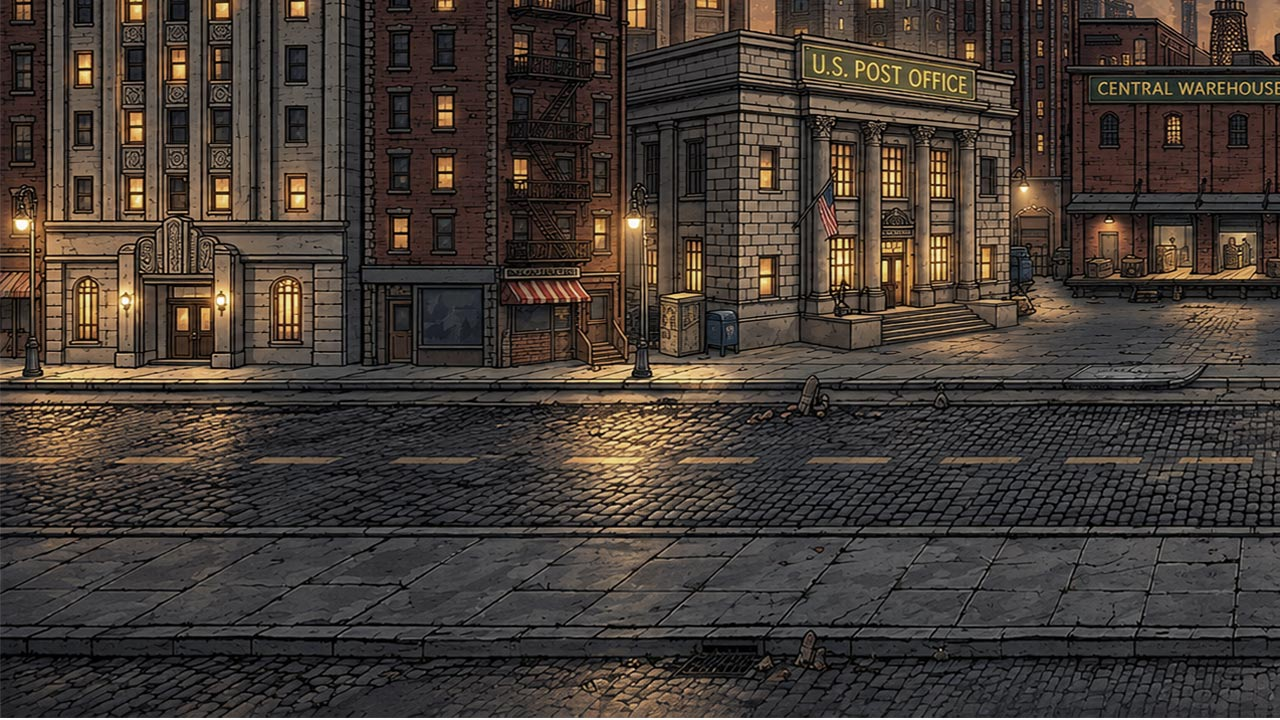
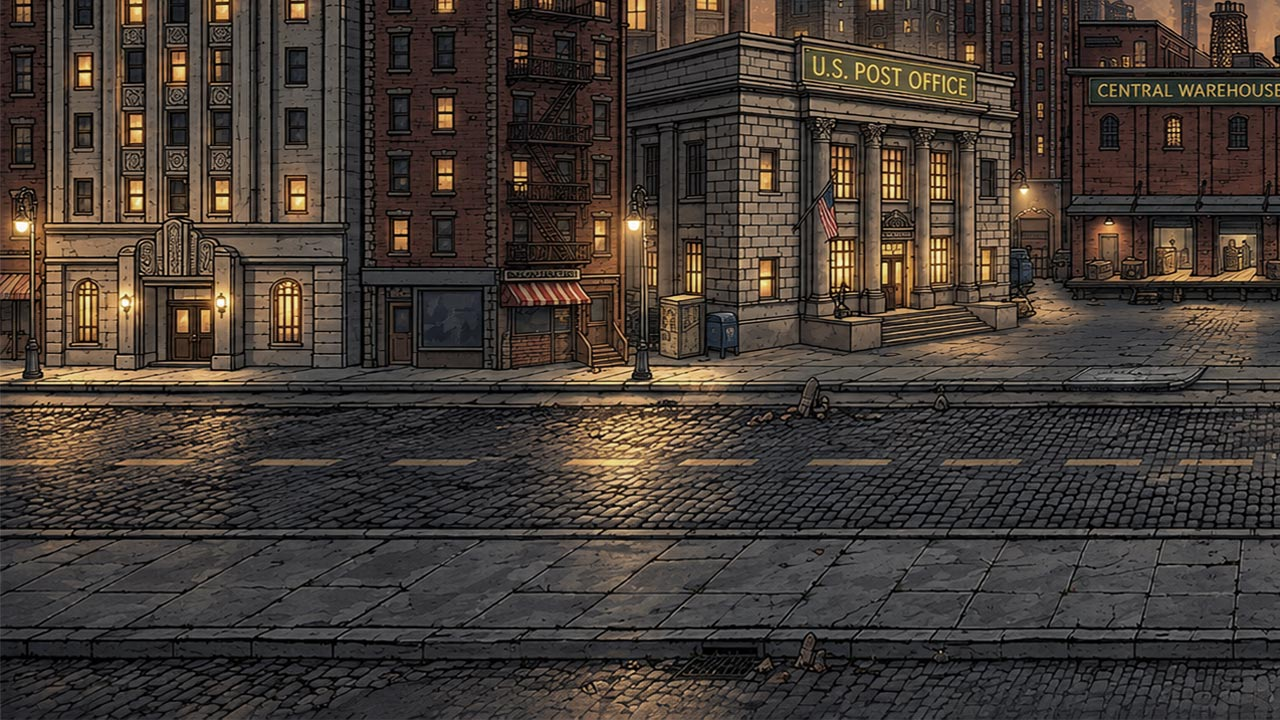
button scale fixes and white line fix

diff --git a/script.js b/script.js
@@ -158,6 +158,7 @@ const game = {
   overReason: null,
   joystickPointerId: null,
   pointerPositions: new Map(),
+  actionPointerIds: new Map(),
   audioUnlocked: false,
   gameOverDelay: 0,
   gameOverTriggered: false,
@@ -170,6 +171,7 @@ const input = {
   down: false,
   joystickX: 0,
   joystickY: 0,
+  actionKeys: new Set(),
 };
 
 const assets = { images: {}, sounds: {} };
@@ -978,14 +980,29 @@ function drawHUD() {
   }
 
   const actions = [
-    { src: ASSET_PATHS.actionJump, rect: BUTTONS.jump },
-    { src: ASSET_PATHS.actionPunch, rect: BUTTONS.punch },
-    { src: ASSET_PATHS.actionKick, rect: BUTTONS.kick },
-    { src: ASSET_PATHS.actionShoot, rect: BUTTONS.shoot },
+    { name: "jump", src: ASSET_PATHS.actionJump, rect: BUTTONS.jump },
+    { name: "punch", src: ASSET_PATHS.actionPunch, rect: BUTTONS.punch },
+    { name: "kick", src: ASSET_PATHS.actionKick, rect: BUTTONS.kick },
+    { name: "shoot", src: ASSET_PATHS.actionShoot, rect: BUTTONS.shoot },
   ];
-  actions.forEach(({ src, rect }) => {
+  actions.forEach(({ name, src, rect }) => {
     const img = assets.images[src];
-    if (img) ctx.drawImage(img, rect.x, rect.y, rect.w, rect.h);
+    if (!img) return;
+    const pressed =
+      input.actionKeys.has(name) ||
+      Array.from(game.actionPointerIds.values()).includes(name);
+    const scale = pressed ? 0.9 : 1;
+    const drawWidth = rect.w * scale;
+    const drawHeight = rect.h * scale;
+    const centerX = rect.x + rect.w / 2;
+    const centerY = rect.y + rect.h / 2;
+    ctx.drawImage(
+      img,
+      centerX - drawWidth / 2,
+      centerY - drawHeight / 2,
+      drawWidth,
+      drawHeight,
+    );
   });
 
   if (game.state === "paused") {
@@ -1071,10 +1088,11 @@ function drawGameOver() {
 }
 
 function render() {
+  ctx.clearRect(0, 0, GAME_WIDTH, GAME_HEIGHT);
+  ctx.fillStyle = "#000";
+  ctx.fillRect(0, 0, GAME_WIDTH, GAME_HEIGHT);
+
   if (isPortrait()) {
-    ctx.clearRect(0, 0, GAME_WIDTH, GAME_HEIGHT);
-    ctx.fillStyle = "#000";
-    ctx.fillRect(0, 0, GAME_WIDTH, GAME_HEIGHT);
     const img = assets.images[ASSET_PATHS.rotatePhone];
     if (img) {
       ctx.drawImage(img, GAME_WIDTH / 2 - 150, GAME_HEIGHT / 2 - 150, 300, 300);
@@ -1157,14 +1175,19 @@ function handlePointerDown(event) {
     }
 
     if (game.state === "playing") {
-      if (rectContains(point.x, point.y, BUTTONS.jump))
-        triggerPlayerAction("jump");
-      else if (rectContains(point.x, point.y, BUTTONS.punch))
-        triggerPlayerAction("punch");
-      else if (rectContains(point.x, point.y, BUTTONS.kick))
-        triggerPlayerAction("kick");
-      else if (rectContains(point.x, point.y, BUTTONS.shoot))
-        triggerPlayerAction("shoot");
+      const actions = [
+        ["jump", BUTTONS.jump],
+        ["punch", BUTTONS.punch],
+        ["kick", BUTTONS.kick],
+        ["shoot", BUTTONS.shoot],
+      ];
+      for (const [action, rect] of actions) {
+        if (rectContains(point.x, point.y, rect)) {
+          game.actionPointerIds.set(event.pointerId, action);
+          triggerPlayerAction(action);
+          return;
+        }
+      }
     }
   }
 }
@@ -1186,6 +1209,7 @@ function handlePointerMove(event) {
 
 function handlePointerUp(event) {
   game.pointerPositions.delete(event.pointerId);
+  game.actionPointerIds.delete(event.pointerId);
   if (event.pointerId === game.joystickPointerId) {
     input.joystickX = 0;
     input.joystickY = 0;
@@ -1220,15 +1244,20 @@ function handleKeyDown(event) {
   if (event.key === "ArrowRight" || key === "d") input.right = true;
   if (event.key === "ArrowUp" || key === "w") input.up = true;
   if (event.key === "ArrowDown" || key === "s") input.down = true;
-  if (key === "1") triggerPlayerAction("jump");
-  if (key === "2") triggerPlayerAction("punch");
-  if (key === "3") triggerPlayerAction("kick");
-  if (key === "4") triggerPlayerAction("shoot");
+  const actionByKey = { "1": "jump", "2": "punch", "3": "kick", "4": "shoot" };
+  const action = actionByKey[key];
+  if (action && !input.actionKeys.has(action)) {
+    input.actionKeys.add(action);
+    triggerPlayerAction(action);
+  }
   if (key === "m") toggleMute();
 }
 
 function handleKeyUp(event) {
   const key = event.key.toLowerCase();
+  const actionByKey = { "1": "jump", "2": "punch", "3": "kick", "4": "shoot" };
+  const action = actionByKey[key];
+  if (action) input.actionKeys.delete(action);
   if (event.key === "ArrowLeft" || key === "a") input.left = false;
   if (event.key === "ArrowRight" || key === "d") input.right = false;
   if (event.key === "ArrowUp" || key === "w") input.up = false;
